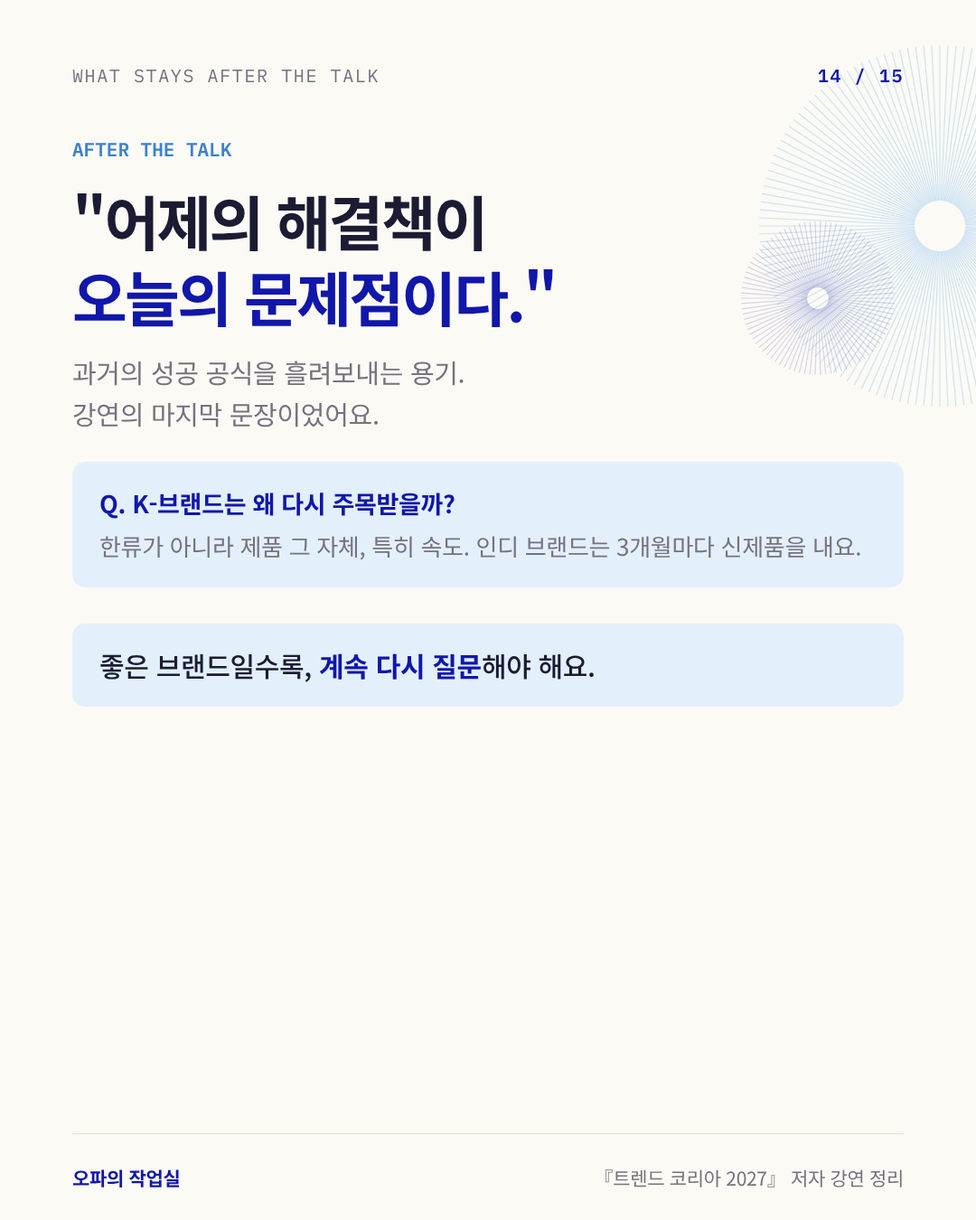
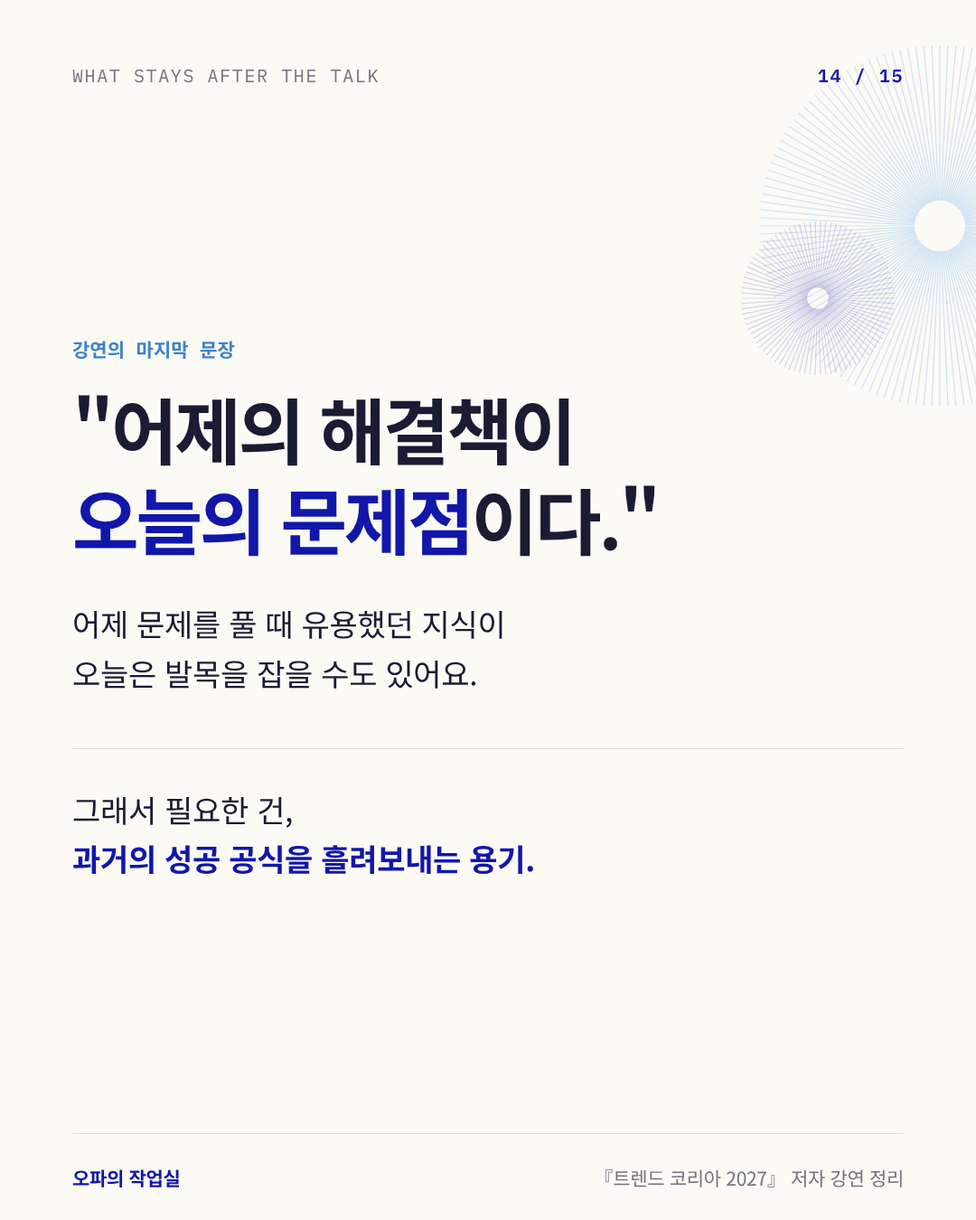
전체 키워드 14번: K-브랜드 Q&A 빼고 마지막 문장 중심 카드로
Claude-Session: https://claude.ai/code/session_016hvv34jPWo253fQY5tLEVV

diff --git a/cardnews/trend-korea-2027/full2/full.html b/cardnews/trend-korea-2027/full2/full.html
@@ -187,12 +187,12 @@
 <section class="card" id="c14"><svg class="deco" viewBox="0 0 1080 1350" aria-hidden="true"><g stroke="#8EC3F0" stroke-width="1.2" stroke-opacity="0.42"><line x1="1068.0" y1="250.0" x2="1240.0" y2="250.0"/><line x1="1068.0" y1="251.3" x2="1239.8" y2="259.0"/><line x1="1067.9" y1="252.5" x2="1239.2" y2="267.9"/><line x1="1067.7" y1="253.8" x2="1238.2" y2="276.8"/><line x1="1067.6" y1="255.0" x2="1236.8" y2="285.7"/><line x1="1067.3" y1="256.2" x2="1235.0" y2="294.5"/><line x1="1067.0" y1="257.4" x2="1232.8" y2="303.2"/><line x1="1066.6" y1="258.7" x2="1230.2" y2="311.8"/><line x1="1066.2" y1="259.8" x2="1227.2" y2="320.3"/><line x1="1065.7" y1="261.0" x2="1223.9" y2="328.6"/><line x1="1065.2" y1="262.1" x2="1220.2" y2="336.8"/><line x1="1064.7" y1="263.3" x2="1216.1" y2="344.8"/><line x1="1064.0" y1="264.4" x2="1211.7" y2="352.6"/><line x1="1063.4" y1="265.4" x2="1206.9" y2="360.2"/><line x1="1062.7" y1="266.5" x2="1201.8" y2="367.6"/><line x1="1061.9" y1="267.5" x2="1196.4" y2="374.7"/><line x1="1061.1" y1="268.4" x2="1190.6" y2="381.6"/><line x1="1060.2" y1="269.3" x2="1184.6" y2="388.2"/><line x1="1059.3" y1="270.2" x2="1178.2" y2="394.6"/><line x1="1058.4" y1="271.1" x2="1171.6" y2="400.6"/><line x1="1057.5" y1="271.9" x2="1164.7" y2="406.4"/><line x1="1056.5" y1="272.7" x2="1157.6" y2="411.8"/><line x1="1055.4" y1="273.4" x2="1150.2" y2="416.9"/><line x1="1054.4" y1="274.0" x2="1142.6" y2="421.7"/><line x1="1053.3" y1="274.7" x2="1134.8" y2="426.1"/><line x1="1052.1" y1="275.2" x2="1126.8" y2="430.2"/><line x1="1051.0" y1="275.7" x2="1118.6" y2="433.9"/><line x1="1049.8" y1="276.2" x2="1110.3" y2="437.2"/><line x1="1048.7" y1="276.6" x2="1101.8" y2="440.2"/><line x1="1047.4" y1="277.0" x2="1093.2" y2="442.8"/><line x1="1046.2" y1="277.3" x2="1084.5" y2="445.0"/><line x1="1045.0" y1="277.6" x2="1075.7" y2="446.8"/><line x1="1043.8" y1="277.7" x2="1066.8" y2="448.2"/><line x1="1042.5" y1="277.9" x2="1057.9" y2="449.2"/><line x1="1041.3" y1="278.0" x2="1049.0" y2="449.8"/><line x1="1040.0" y1="278.0" x2="1040.0" y2="450.0"/><line x1="1038.7" y1="278.0" x2="1031.0" y2="449.8"/><line x1="1037.5" y1="277.9" x2="1022.1" y2="449.2"/><line x1="1036.2" y1="277.7" x2="1013.2" y2="448.2"/><line x1="1035.0" y1="277.6" x2="1004.3" y2="446.8"/><line x1="1033.8" y1="277.3" x2="995.5" y2="445.0"/><line x1="1032.6" y1="277.0" x2="986.8" y2="442.8"/><line x1="1031.3" y1="276.6" x2="978.2" y2="440.2"/><line x1="1030.2" y1="276.2" x2="969.7" y2="437.2"/><line x1="1029.0" y1="275.7" x2="961.4" y2="433.9"/><line x1="1027.9" y1="275.2" x2="953.2" y2="430.2"/><line x1="1026.7" y1="274.7" x2="945.2" y2="426.1"/><line x1="1025.6" y1="274.0" x2="937.4" y2="421.7"/><line x1="1024.6" y1="273.4" x2="929.8" y2="416.9"/><line x1="1023.5" y1="272.7" x2="922.4" y2="411.8"/><line x1="1022.5" y1="271.9" x2="915.3" y2="406.4"/><line x1="1021.6" y1="271.1" x2="908.4" y2="400.6"/><line x1="1020.7" y1="270.2" x2="901.8" y2="394.6"/><line x1="1019.8" y1="269.3" x2="895.4" y2="388.2"/><line x1="1018.9" y1="268.4" x2="889.4" y2="381.6"/><line x1="1018.1" y1="267.5" x2="883.6" y2="374.7"/><line x1="1017.3" y1="266.5" x2="878.2" y2="367.6"/><line x1="1016.6" y1="265.4" x2="873.1" y2="360.2"/><line x1="1016.0" y1="264.4" x2="868.3" y2="352.6"/><line x1="1015.3" y1="263.3" x2="863.9" y2="344.8"/><line x1="1014.8" y1="262.1" x2="859.8" y2="336.8"/><line x1="1014.3" y1="261.0" x2="856.1" y2="328.6"/><line x1="1013.8" y1="259.8" x2="852.8" y2="320.3"/><line x1="1013.4" y1="258.7" x2="849.8" y2="311.8"/><line x1="1013.0" y1="257.4" x2="847.2" y2="303.2"/><line x1="1012.7" y1="256.2" x2="845.0" y2="294.5"/><line x1="1012.4" y1="255.0" x2="843.2" y2="285.7"/><line x1="1012.3" y1="253.8" x2="841.8" y2="276.8"/><line x1="1012.1" y1="252.5" x2="840.8" y2="267.9"/><line x1="1012.0" y1="251.3" x2="840.2" y2="259.0"/><line x1="1012.0" y1="250.0" x2="840.0" y2="250.0"/><line x1="1012.0" y1="248.7" x2="840.2" y2="241.0"/><line x1="1012.1" y1="247.5" x2="840.8" y2="232.1"/><line x1="1012.3" y1="246.2" x2="841.8" y2="223.2"/><line x1="1012.4" y1="245.0" x2="843.2" y2="214.3"/><line x1="1012.7" y1="243.8" x2="845.0" y2="205.5"/><line x1="1013.0" y1="242.6" x2="847.2" y2="196.8"/><line x1="1013.4" y1="241.3" x2="849.8" y2="188.2"/><line x1="1013.8" y1="240.2" x2="852.8" y2="179.7"/><line x1="1014.3" y1="239.0" x2="856.1" y2="171.4"/><line x1="1014.8" y1="237.9" x2="859.8" y2="163.2"/><line x1="1015.3" y1="236.7" x2="863.9" y2="155.2"/><line x1="1016.0" y1="235.6" x2="868.3" y2="147.4"/><line x1="1016.6" y1="234.6" x2="873.1" y2="139.8"/><line x1="1017.3" y1="233.5" x2="878.2" y2="132.4"/><line x1="1018.1" y1="232.5" x2="883.6" y2="125.3"/><line x1="1018.9" y1="231.6" x2="889.4" y2="118.4"/><line x1="1019.8" y1="230.7" x2="895.4" y2="111.8"/><line x1="1020.7" y1="229.8" x2="901.8" y2="105.4"/><line x1="1021.6" y1="228.9" x2="908.4" y2="99.4"/><line x1="1022.5" y1="228.1" x2="915.3" y2="93.6"/><line x1="1023.5" y1="227.3" x2="922.4" y2="88.2"/><line x1="1024.6" y1="226.6" x2="929.8" y2="83.1"/><line x1="1025.6" y1="226.0" x2="937.4" y2="78.3"/><line x1="1026.7" y1="225.3" x2="945.2" y2="73.9"/><line x1="1027.9" y1="224.8" x2="953.2" y2="69.8"/><line x1="1029.0" y1="224.3" x2="961.4" y2="66.1"/><line x1="1030.2" y1="223.8" x2="969.7" y2="62.8"/><line x1="1031.3" y1="223.4" x2="978.2" y2="59.8"/><line x1="1032.6" y1="223.0" x2="986.8" y2="57.2"/><line x1="1033.8" y1="222.7" x2="995.5" y2="55.0"/><line x1="1035.0" y1="222.4" x2="1004.3" y2="53.2"/><line x1="1036.2" y1="222.3" x2="1013.2" y2="51.8"/><line x1="1037.5" y1="222.1" x2="1022.1" y2="50.8"/><line x1="1038.7" y1="222.0" x2="1031.0" y2="50.2"/><line x1="1040.0" y1="222.0" x2="1040.0" y2="50.0"/><line x1="1041.3" y1="222.0" x2="1049.0" y2="50.2"/><line x1="1042.5" y1="222.1" x2="1057.9" y2="50.8"/><line x1="1043.8" y1="222.3" x2="1066.8" y2="51.8"/><line x1="1045.0" y1="222.4" x2="1075.7" y2="53.2"/><line x1="1046.2" y1="222.7" x2="1084.5" y2="55.0"/><line x1="1047.4" y1="223.0" x2="1093.2" y2="57.2"/><line x1="1048.7" y1="223.4" x2="1101.8" y2="59.8"/><line x1="1049.8" y1="223.8" x2="1110.3" y2="62.8"/><line x1="1051.0" y1="224.3" x2="1118.6" y2="66.1"/><line x1="1052.1" y1="224.8" x2="1126.8" y2="69.8"/><line x1="1053.3" y1="225.3" x2="1134.8" y2="73.9"/><line x1="1054.4" y1="226.0" x2="1142.6" y2="78.3"/><line x1="1055.4" y1="226.6" x2="1150.2" y2="83.1"/><line x1="1056.5" y1="227.3" x2="1157.6" y2="88.2"/><line x1="1057.5" y1="228.1" x2="1164.7" y2="93.6"/><line x1="1058.4" y1="228.9" x2="1171.6" y2="99.4"/><line x1="1059.3" y1="229.8" x2="1178.2" y2="105.4"/><line x1="1060.2" y1="230.7" x2="1184.6" y2="111.8"/><line x1="1061.1" y1="231.6" x2="1190.6" y2="118.4"/><line x1="1061.9" y1="232.5" x2="1196.4" y2="125.3"/><line x1="1062.7" y1="233.5" x2="1201.8" y2="132.4"/><line x1="1063.4" y1="234.6" x2="1206.9" y2="139.8"/><line x1="1064.0" y1="235.6" x2="1211.7" y2="147.4"/><line x1="1064.7" y1="236.7" x2="1216.1" y2="155.2"/><line x1="1065.2" y1="237.9" x2="1220.2" y2="163.2"/><line x1="1065.7" y1="239.0" x2="1223.9" y2="171.4"/><line x1="1066.2" y1="240.2" x2="1227.2" y2="179.7"/><line x1="1066.6" y1="241.3" x2="1230.2" y2="188.2"/><line x1="1067.0" y1="242.6" x2="1232.8" y2="196.8"/><line x1="1067.3" y1="243.8" x2="1235.0" y2="205.5"/><line x1="1067.6" y1="245.0" x2="1236.8" y2="214.3"/><line x1="1067.7" y1="246.2" x2="1238.2" y2="223.2"/><line x1="1067.9" y1="247.5" x2="1239.2" y2="232.1"/><line x1="1068.0" y1="248.7" x2="1239.8" y2="241.0"/></g><g stroke="#1117A9" stroke-width="1.2" stroke-opacity="0.16"><line x1="916.9" y1="330.0" x2="990.0" y2="330.0"/><line x1="916.9" y1="330.8" x2="989.8" y2="335.9"/><line x1="916.8" y1="331.7" x2="989.2" y2="341.8"/><line x1="916.6" y1="332.5" x2="988.1" y2="347.7"/><line x1="916.4" y1="333.3" x2="986.7" y2="353.4"/><line x1="916.2" y1="334.1" x2="984.9" y2="359.1"/><line x1="915.9" y1="334.8" x2="982.7" y2="364.6"/><line x1="915.5" y1="335.6" x2="980.1" y2="369.9"/><line x1="915.1" y1="336.3" x2="977.1" y2="375.0"/><line x1="914.6" y1="337.0" x2="973.8" y2="380.0"/><line x1="914.1" y1="337.6" x2="970.1" y2="384.6"/><line x1="913.6" y1="338.3" x2="966.1" y2="389.0"/><line x1="913.0" y1="338.8" x2="961.9" y2="393.2"/><line x1="912.3" y1="339.4" x2="957.3" y2="397.0"/><line x1="911.7" y1="339.9" x2="952.5" y2="400.5"/><line x1="911.0" y1="340.3" x2="947.5" y2="403.6"/><line x1="910.2" y1="340.7" x2="942.3" y2="406.4"/><line x1="909.5" y1="341.0" x2="936.8" y2="408.8"/><line x1="908.7" y1="341.3" x2="931.3" y2="410.8"/><line x1="907.9" y1="341.5" x2="925.6" y2="412.5"/><line x1="907.1" y1="341.7" x2="919.8" y2="413.7"/><line x1="906.2" y1="341.8" x2="913.9" y2="414.5"/><line x1="905.4" y1="341.9" x2="908.0" y2="414.9"/><line x1="904.6" y1="341.9" x2="902.0" y2="414.9"/><line x1="903.8" y1="341.8" x2="896.1" y2="414.5"/><line x1="902.9" y1="341.7" x2="890.2" y2="413.7"/><line x1="902.1" y1="341.5" x2="884.4" y2="412.5"/><line x1="901.3" y1="341.3" x2="878.7" y2="410.8"/><line x1="900.5" y1="341.0" x2="873.2" y2="408.8"/><line x1="899.8" y1="340.7" x2="867.7" y2="406.4"/><line x1="899.0" y1="340.3" x2="862.5" y2="403.6"/><line x1="898.3" y1="339.9" x2="857.5" y2="400.5"/><line x1="897.7" y1="339.4" x2="852.7" y2="397.0"/><line x1="897.0" y1="338.8" x2="848.1" y2="393.2"/><line x1="896.4" y1="338.3" x2="843.9" y2="389.0"/><line x1="895.9" y1="337.6" x2="839.9" y2="384.6"/><line x1="895.4" y1="337.0" x2="836.2" y2="380.0"/><line x1="894.9" y1="336.3" x2="832.9" y2="375.0"/><line x1="894.5" y1="335.6" x2="829.9" y2="369.9"/><line x1="894.1" y1="334.8" x2="827.3" y2="364.6"/><line x1="893.8" y1="334.1" x2="825.1" y2="359.1"/><line x1="893.6" y1="333.3" x2="823.3" y2="353.4"/><line x1="893.4" y1="332.5" x2="821.9" y2="347.7"/><line x1="893.2" y1="331.7" x2="820.8" y2="341.8"/><line x1="893.1" y1="330.8" x2="820.2" y2="335.9"/><line x1="893.1" y1="330.0" x2="820.0" y2="330.0"/><line x1="893.1" y1="329.2" x2="820.2" y2="324.1"/><line x1="893.2" y1="328.3" x2="820.8" y2="318.2"/><line x1="893.4" y1="327.5" x2="821.9" y2="312.3"/><line x1="893.6" y1="326.7" x2="823.3" y2="306.6"/><line x1="893.8" y1="325.9" x2="825.1" y2="300.9"/><line x1="894.1" y1="325.2" x2="827.3" y2="295.4"/><line x1="894.5" y1="324.4" x2="829.9" y2="290.1"/><line x1="894.9" y1="323.7" x2="832.9" y2="285.0"/><line x1="895.4" y1="323.0" x2="836.2" y2="280.0"/><line x1="895.9" y1="322.4" x2="839.9" y2="275.4"/><line x1="896.4" y1="321.7" x2="843.9" y2="271.0"/><line x1="897.0" y1="321.2" x2="848.1" y2="266.8"/><line x1="897.7" y1="320.6" x2="852.7" y2="263.0"/><line x1="898.3" y1="320.1" x2="857.5" y2="259.5"/><line x1="899.0" y1="319.7" x2="862.5" y2="256.4"/><line x1="899.8" y1="319.3" x2="867.7" y2="253.6"/><line x1="900.5" y1="319.0" x2="873.2" y2="251.2"/><line x1="901.3" y1="318.7" x2="878.7" y2="249.2"/><line x1="902.1" y1="318.5" x2="884.4" y2="247.5"/><line x1="902.9" y1="318.3" x2="890.2" y2="246.3"/><line x1="903.8" y1="318.2" x2="896.1" y2="245.5"/><line x1="904.6" y1="318.1" x2="902.0" y2="245.1"/><line x1="905.4" y1="318.1" x2="908.0" y2="245.1"/><line x1="906.2" y1="318.2" x2="913.9" y2="245.5"/><line x1="907.1" y1="318.3" x2="919.8" y2="246.3"/><line x1="907.9" y1="318.5" x2="925.6" y2="247.5"/><line x1="908.7" y1="318.7" x2="931.3" y2="249.2"/><line x1="909.5" y1="319.0" x2="936.8" y2="251.2"/><line x1="910.2" y1="319.3" x2="942.3" y2="253.6"/><line x1="911.0" y1="319.7" x2="947.5" y2="256.4"/><line x1="911.7" y1="320.1" x2="952.5" y2="259.5"/><line x1="912.3" y1="320.6" x2="957.3" y2="263.0"/><line x1="913.0" y1="321.2" x2="961.9" y2="266.8"/><line x1="913.6" y1="321.7" x2="966.1" y2="271.0"/><line x1="914.1" y1="322.4" x2="970.1" y2="275.4"/><line x1="914.6" y1="323.0" x2="973.8" y2="280.0"/><line x1="915.1" y1="323.7" x2="977.1" y2="285.0"/><line x1="915.5" y1="324.4" x2="980.1" y2="290.1"/><line x1="915.9" y1="325.2" x2="982.7" y2="295.4"/><line x1="916.2" y1="325.9" x2="984.9" y2="300.9"/><line x1="916.4" y1="326.7" x2="986.7" y2="306.6"/><line x1="916.6" y1="327.5" x2="988.1" y2="312.3"/><line x1="916.8" y1="328.3" x2="989.2" y2="318.2"/><line x1="916.9" y1="329.2" x2="989.8" y2="324.1"/></g></svg>
   <div class="top"><span>WHAT STAYS AFTER THE TALK</span><b>14 / 15</b></div>
   
-  <div class="lab big">AFTER THE TALK</div>
-  <h2 class="quote">"어제의 해결책이<br><span>오늘의 문제점이다."</span></h2>
-  <p class="def">과거의 성공 공식을 흘려보내는 용기.<br>강연의 마지막 문장이었어요.</p>
-  <div class="qa sky"><b>Q. K-브랜드는 왜 다시 주목받을까?</b>
-    <p>한류가 아니라 제품 그 자체, 특히 속도. 인디 브랜드는 3개월마다 신제품을 내요.</p></div>
-  <div class="banner">좋은 브랜드일수록, <b>계속 다시 질문</b>해야 해요.</div>
+  <div class="msg">
+    <div class="lab big">강연의 마지막 문장</div>
+    <h2 class="big quote">"어제의 해결책이<br><span>오늘의 문제점</span>이다."</h2>
+    <p class="lead">어제 문제를 풀 때 유용했던 지식이<br>오늘은 발목을 잡을 수도 있어요.</p>
+    <p class="lead close">그래서 필요한 건,<br><b>과거의 성공 공식을 흘려보내는 용기.</b></p>
+  </div>
   <div class="foot"><span>오파의 작업실</span><span>『트렌드 코리아 2027』 저자 강연 정리</span></div>
 </section>
 <section class="card" id="c15"><svg class="deco" viewBox="0 0 1080 1350" aria-hidden="true"><g stroke="#8EC3F0" stroke-width="1.2" stroke-opacity="0.42"><line x1="1068.0" y1="250.0" x2="1240.0" y2="250.0"/><line x1="1068.0" y1="251.3" x2="1239.8" y2="259.0"/><line x1="1067.9" y1="252.5" x2="1239.2" y2="267.9"/><line x1="1067.7" y1="253.8" x2="1238.2" y2="276.8"/><line x1="1067.6" y1="255.0" x2="1236.8" y2="285.7"/><line x1="1067.3" y1="256.2" x2="1235.0" y2="294.5"/><line x1="1067.0" y1="257.4" x2="1232.8" y2="303.2"/><line x1="1066.6" y1="258.7" x2="1230.2" y2="311.8"/><line x1="1066.2" y1="259.8" x2="1227.2" y2="320.3"/><line x1="1065.7" y1="261.0" x2="1223.9" y2="328.6"/><line x1="1065.2" y1="262.1" x2="1220.2" y2="336.8"/><line x1="1064.7" y1="263.3" x2="1216.1" y2="344.8"/><line x1="1064.0" y1="264.4" x2="1211.7" y2="352.6"/><line x1="1063.4" y1="265.4" x2="1206.9" y2="360.2"/><line x1="1062.7" y1="266.5" x2="1201.8" y2="367.6"/><line x1="1061.9" y1="267.5" x2="1196.4" y2="374.7"/><line x1="1061.1" y1="268.4" x2="1190.6" y2="381.6"/><line x1="1060.2" y1="269.3" x2="1184.6" y2="388.2"/><line x1="1059.3" y1="270.2" x2="1178.2" y2="394.6"/><line x1="1058.4" y1="271.1" x2="1171.6" y2="400.6"/><line x1="1057.5" y1="271.9" x2="1164.7" y2="406.4"/><line x1="1056.5" y1="272.7" x2="1157.6" y2="411.8"/><line x1="1055.4" y1="273.4" x2="1150.2" y2="416.9"/><line x1="1054.4" y1="274.0" x2="1142.6" y2="421.7"/><line x1="1053.3" y1="274.7" x2="1134.8" y2="426.1"/><line x1="1052.1" y1="275.2" x2="1126.8" y2="430.2"/><line x1="1051.0" y1="275.7" x2="1118.6" y2="433.9"/><line x1="1049.8" y1="276.2" x2="1110.3" y2="437.2"/><line x1="1048.7" y1="276.6" x2="1101.8" y2="440.2"/><line x1="1047.4" y1="277.0" x2="1093.2" y2="442.8"/><line x1="1046.2" y1="277.3" x2="1084.5" y2="445.0"/><line x1="1045.0" y1="277.6" x2="1075.7" y2="446.8"/><line x1="1043.8" y1="277.7" x2="1066.8" y2="448.2"/><line x1="1042.5" y1="277.9" x2="1057.9" y2="449.2"/><line x1="1041.3" y1="278.0" x2="1049.0" y2="449.8"/><line x1="1040.0" y1="278.0" x2="1040.0" y2="450.0"/><line x1="1038.7" y1="278.0" x2="1031.0" y2="449.8"/><line x1="1037.5" y1="277.9" x2="1022.1" y2="449.2"/><line x1="1036.2" y1="277.7" x2="1013.2" y2="448.2"/><line x1="1035.0" y1="277.6" x2="1004.3" y2="446.8"/><line x1="1033.8" y1="277.3" x2="995.5" y2="445.0"/><line x1="1032.6" y1="277.0" x2="986.8" y2="442.8"/><line x1="1031.3" y1="276.6" x2="978.2" y2="440.2"/><line x1="1030.2" y1="276.2" x2="969.7" y2="437.2"/><line x1="1029.0" y1="275.7" x2="961.4" y2="433.9"/><line x1="1027.9" y1="275.2" x2="953.2" y2="430.2"/><line x1="1026.7" y1="274.7" x2="945.2" y2="426.1"/><line x1="1025.6" y1="274.0" x2="937.4" y2="421.7"/><line x1="1024.6" y1="273.4" x2="929.8" y2="416.9"/><line x1="1023.5" y1="272.7" x2="922.4" y2="411.8"/><line x1="1022.5" y1="271.9" x2="915.3" y2="406.4"/><line x1="1021.6" y1="271.1" x2="908.4" y2="400.6"/><line x1="1020.7" y1="270.2" x2="901.8" y2="394.6"/><line x1="1019.8" y1="269.3" x2="895.4" y2="388.2"/><line x1="1018.9" y1="268.4" x2="889.4" y2="381.6"/><line x1="1018.1" y1="267.5" x2="883.6" y2="374.7"/><line x1="1017.3" y1="266.5" x2="878.2" y2="367.6"/><line x1="1016.6" y1="265.4" x2="873.1" y2="360.2"/><line x1="1016.0" y1="264.4" x2="868.3" y2="352.6"/><line x1="1015.3" y1="263.3" x2="863.9" y2="344.8"/><line x1="1014.8" y1="262.1" x2="859.8" y2="336.8"/><line x1="1014.3" y1="261.0" x2="856.1" y2="328.6"/><line x1="1013.8" y1="259.8" x2="852.8" y2="320.3"/><line x1="1013.4" y1="258.7" x2="849.8" y2="311.8"/><line x1="1013.0" y1="257.4" x2="847.2" y2="303.2"/><line x1="1012.7" y1="256.2" x2="845.0" y2="294.5"/><line x1="1012.4" y1="255.0" x2="843.2" y2="285.7"/><line x1="1012.3" y1="253.8" x2="841.8" y2="276.8"/><line x1="1012.1" y1="252.5" x2="840.8" y2="267.9"/><line x1="1012.0" y1="251.3" x2="840.2" y2="259.0"/><line x1="1012.0" y1="250.0" x2="840.0" y2="250.0"/><line x1="1012.0" y1="248.7" x2="840.2" y2="241.0"/><line x1="1012.1" y1="247.5" x2="840.8" y2="232.1"/><line x1="1012.3" y1="246.2" x2="841.8" y2="223.2"/><line x1="1012.4" y1="245.0" x2="843.2" y2="214.3"/><line x1="1012.7" y1="243.8" x2="845.0" y2="205.5"/><line x1="1013.0" y1="242.6" x2="847.2" y2="196.8"/><line x1="1013.4" y1="241.3" x2="849.8" y2="188.2"/><line x1="1013.8" y1="240.2" x2="852.8" y2="179.7"/><line x1="1014.3" y1="239.0" x2="856.1" y2="171.4"/><line x1="1014.8" y1="237.9" x2="859.8" y2="163.2"/><line x1="1015.3" y1="236.7" x2="863.9" y2="155.2"/><line x1="1016.0" y1="235.6" x2="868.3" y2="147.4"/><line x1="1016.6" y1="234.6" x2="873.1" y2="139.8"/><line x1="1017.3" y1="233.5" x2="878.2" y2="132.4"/><line x1="1018.1" y1="232.5" x2="883.6" y2="125.3"/><line x1="1018.9" y1="231.6" x2="889.4" y2="118.4"/><line x1="1019.8" y1="230.7" x2="895.4" y2="111.8"/><line x1="1020.7" y1="229.8" x2="901.8" y2="105.4"/><line x1="1021.6" y1="228.9" x2="908.4" y2="99.4"/><line x1="1022.5" y1="228.1" x2="915.3" y2="93.6"/><line x1="1023.5" y1="227.3" x2="922.4" y2="88.2"/><line x1="1024.6" y1="226.6" x2="929.8" y2="83.1"/><line x1="1025.6" y1="226.0" x2="937.4" y2="78.3"/><line x1="1026.7" y1="225.3" x2="945.2" y2="73.9"/><line x1="1027.9" y1="224.8" x2="953.2" y2="69.8"/><line x1="1029.0" y1="224.3" x2="961.4" y2="66.1"/><line x1="1030.2" y1="223.8" x2="969.7" y2="62.8"/><line x1="1031.3" y1="223.4" x2="978.2" y2="59.8"/><line x1="1032.6" y1="223.0" x2="986.8" y2="57.2"/><line x1="1033.8" y1="222.7" x2="995.5" y2="55.0"/><line x1="1035.0" y1="222.4" x2="1004.3" y2="53.2"/><line x1="1036.2" y1="222.3" x2="1013.2" y2="51.8"/><line x1="1037.5" y1="222.1" x2="1022.1" y2="50.8"/><line x1="1038.7" y1="222.0" x2="1031.0" y2="50.2"/><line x1="1040.0" y1="222.0" x2="1040.0" y2="50.0"/><line x1="1041.3" y1="222.0" x2="1049.0" y2="50.2"/><line x1="1042.5" y1="222.1" x2="1057.9" y2="50.8"/><line x1="1043.8" y1="222.3" x2="1066.8" y2="51.8"/><line x1="1045.0" y1="222.4" x2="1075.7" y2="53.2"/><line x1="1046.2" y1="222.7" x2="1084.5" y2="55.0"/><line x1="1047.4" y1="223.0" x2="1093.2" y2="57.2"/><line x1="1048.7" y1="223.4" x2="1101.8" y2="59.8"/><line x1="1049.8" y1="223.8" x2="1110.3" y2="62.8"/><line x1="1051.0" y1="224.3" x2="1118.6" y2="66.1"/><line x1="1052.1" y1="224.8" x2="1126.8" y2="69.8"/><line x1="1053.3" y1="225.3" x2="1134.8" y2="73.9"/><line x1="1054.4" y1="226.0" x2="1142.6" y2="78.3"/><line x1="1055.4" y1="226.6" x2="1150.2" y2="83.1"/><line x1="1056.5" y1="227.3" x2="1157.6" y2="88.2"/><line x1="1057.5" y1="228.1" x2="1164.7" y2="93.6"/><line x1="1058.4" y1="228.9" x2="1171.6" y2="99.4"/><line x1="1059.3" y1="229.8" x2="1178.2" y2="105.4"/><line x1="1060.2" y1="230.7" x2="1184.6" y2="111.8"/><line x1="1061.1" y1="231.6" x2="1190.6" y2="118.4"/><line x1="1061.9" y1="232.5" x2="1196.4" y2="125.3"/><line x1="1062.7" y1="233.5" x2="1201.8" y2="132.4"/><line x1="1063.4" y1="234.6" x2="1206.9" y2="139.8"/><line x1="1064.0" y1="235.6" x2="1211.7" y2="147.4"/><line x1="1064.7" y1="236.7" x2="1216.1" y2="155.2"/><line x1="1065.2" y1="237.9" x2="1220.2" y2="163.2"/><line x1="1065.7" y1="239.0" x2="1223.9" y2="171.4"/><line x1="1066.2" y1="240.2" x2="1227.2" y2="179.7"/><line x1="1066.6" y1="241.3" x2="1230.2" y2="188.2"/><line x1="1067.0" y1="242.6" x2="1232.8" y2="196.8"/><line x1="1067.3" y1="243.8" x2="1235.0" y2="205.5"/><line x1="1067.6" y1="245.0" x2="1236.8" y2="214.3"/><line x1="1067.7" y1="246.2" x2="1238.2" y2="223.2"/><line x1="1067.9" y1="247.5" x2="1239.2" y2="232.1"/><line x1="1068.0" y1="248.7" x2="1239.8" y2="241.0"/></g><g stroke="#1117A9" stroke-width="1.2" stroke-opacity="0.16"><line x1="916.9" y1="330.0" x2="990.0" y2="330.0"/><line x1="916.9" y1="330.8" x2="989.8" y2="335.9"/><line x1="916.8" y1="331.7" x2="989.2" y2="341.8"/><line x1="916.6" y1="332.5" x2="988.1" y2="347.7"/><line x1="916.4" y1="333.3" x2="986.7" y2="353.4"/><line x1="916.2" y1="334.1" x2="984.9" y2="359.1"/><line x1="915.9" y1="334.8" x2="982.7" y2="364.6"/><line x1="915.5" y1="335.6" x2="980.1" y2="369.9"/><line x1="915.1" y1="336.3" x2="977.1" y2="375.0"/><line x1="914.6" y1="337.0" x2="973.8" y2="380.0"/><line x1="914.1" y1="337.6" x2="970.1" y2="384.6"/><line x1="913.6" y1="338.3" x2="966.1" y2="389.0"/><line x1="913.0" y1="338.8" x2="961.9" y2="393.2"/><line x1="912.3" y1="339.4" x2="957.3" y2="397.0"/><line x1="911.7" y1="339.9" x2="952.5" y2="400.5"/><line x1="911.0" y1="340.3" x2="947.5" y2="403.6"/><line x1="910.2" y1="340.7" x2="942.3" y2="406.4"/><line x1="909.5" y1="341.0" x2="936.8" y2="408.8"/><line x1="908.7" y1="341.3" x2="931.3" y2="410.8"/><line x1="907.9" y1="341.5" x2="925.6" y2="412.5"/><line x1="907.1" y1="341.7" x2="919.8" y2="413.7"/><line x1="906.2" y1="341.8" x2="913.9" y2="414.5"/><line x1="905.4" y1="341.9" x2="908.0" y2="414.9"/><line x1="904.6" y1="341.9" x2="902.0" y2="414.9"/><line x1="903.8" y1="341.8" x2="896.1" y2="414.5"/><line x1="902.9" y1="341.7" x2="890.2" y2="413.7"/><line x1="902.1" y1="341.5" x2="884.4" y2="412.5"/><line x1="901.3" y1="341.3" x2="878.7" y2="410.8"/><line x1="900.5" y1="341.0" x2="873.2" y2="408.8"/><line x1="899.8" y1="340.7" x2="867.7" y2="406.4"/><line x1="899.0" y1="340.3" x2="862.5" y2="403.6"/><line x1="898.3" y1="339.9" x2="857.5" y2="400.5"/><line x1="897.7" y1="339.4" x2="852.7" y2="397.0"/><line x1="897.0" y1="338.8" x2="848.1" y2="393.2"/><line x1="896.4" y1="338.3" x2="843.9" y2="389.0"/><line x1="895.9" y1="337.6" x2="839.9" y2="384.6"/><line x1="895.4" y1="337.0" x2="836.2" y2="380.0"/><line x1="894.9" y1="336.3" x2="832.9" y2="375.0"/><line x1="894.5" y1="335.6" x2="829.9" y2="369.9"/><line x1="894.1" y1="334.8" x2="827.3" y2="364.6"/><line x1="893.8" y1="334.1" x2="825.1" y2="359.1"/><line x1="893.6" y1="333.3" x2="823.3" y2="353.4"/><line x1="893.4" y1="332.5" x2="821.9" y2="347.7"/><line x1="893.2" y1="331.7" x2="820.8" y2="341.8"/><line x1="893.1" y1="330.8" x2="820.2" y2="335.9"/><line x1="893.1" y1="330.0" x2="820.0" y2="330.0"/><line x1="893.1" y1="329.2" x2="820.2" y2="324.1"/><line x1="893.2" y1="328.3" x2="820.8" y2="318.2"/><line x1="893.4" y1="327.5" x2="821.9" y2="312.3"/><line x1="893.6" y1="326.7" x2="823.3" y2="306.6"/><line x1="893.8" y1="325.9" x2="825.1" y2="300.9"/><line x1="894.1" y1="325.2" x2="827.3" y2="295.4"/><line x1="894.5" y1="324.4" x2="829.9" y2="290.1"/><line x1="894.9" y1="323.7" x2="832.9" y2="285.0"/><line x1="895.4" y1="323.0" x2="836.2" y2="280.0"/><line x1="895.9" y1="322.4" x2="839.9" y2="275.4"/><line x1="896.4" y1="321.7" x2="843.9" y2="271.0"/><line x1="897.0" y1="321.2" x2="848.1" y2="266.8"/><line x1="897.7" y1="320.6" x2="852.7" y2="263.0"/><line x1="898.3" y1="320.1" x2="857.5" y2="259.5"/><line x1="899.0" y1="319.7" x2="862.5" y2="256.4"/><line x1="899.8" y1="319.3" x2="867.7" y2="253.6"/><line x1="900.5" y1="319.0" x2="873.2" y2="251.2"/><line x1="901.3" y1="318.7" x2="878.7" y2="249.2"/><line x1="902.1" y1="318.5" x2="884.4" y2="247.5"/><line x1="902.9" y1="318.3" x2="890.2" y2="246.3"/><line x1="903.8" y1="318.2" x2="896.1" y2="245.5"/><line x1="904.6" y1="318.1" x2="902.0" y2="245.1"/><line x1="905.4" y1="318.1" x2="908.0" y2="245.1"/><line x1="906.2" y1="318.2" x2="913.9" y2="245.5"/><line x1="907.1" y1="318.3" x2="919.8" y2="246.3"/><line x1="907.9" y1="318.5" x2="925.6" y2="247.5"/><line x1="908.7" y1="318.7" x2="931.3" y2="249.2"/><line x1="909.5" y1="319.0" x2="936.8" y2="251.2"/><line x1="910.2" y1="319.3" x2="942.3" y2="253.6"/><line x1="911.0" y1="319.7" x2="947.5" y2="256.4"/><line x1="911.7" y1="320.1" x2="952.5" y2="259.5"/><line x1="912.3" y1="320.6" x2="957.3" y2="263.0"/><line x1="913.0" y1="321.2" x2="961.9" y2="266.8"/><line x1="913.6" y1="321.7" x2="966.1" y2="271.0"/><line x1="914.1" y1="322.4" x2="970.1" y2="275.4"/><line x1="914.6" y1="323.0" x2="973.8" y2="280.0"/><line x1="915.1" y1="323.7" x2="977.1" y2="285.0"/><line x1="915.5" y1="324.4" x2="980.1" y2="290.1"/><line x1="915.9" y1="325.2" x2="982.7" y2="295.4"/><line x1="916.2" y1="325.9" x2="984.9" y2="300.9"/><line x1="916.4" y1="326.7" x2="986.7" y2="306.6"/><line x1="916.6" y1="327.5" x2="988.1" y2="312.3"/><line x1="916.8" y1="328.3" x2="989.2" y2="318.2"/><line x1="916.9" y1="329.2" x2="989.8" y2="324.1"/></g></svg>

diff --git a/cardnews/trend-korea-2027/full2/full.css b/cardnews/trend-korea-2027/full2/full.css
@@ -86,3 +86,5 @@ h2.big { font-size: 76px; line-height: 1.25; }
 /* 사진 대신 인용 타일 */
 .ph.qt { display: flex; align-items: center; justify-content: center; background: var(--blue); }
 .ph.qt p { font-family: var(--serif), 'Noto Sans KR'; color: #FCFAF5; font-size: 34px; font-weight: 700; line-height: 1.4; text-align: center; letter-spacing: -.02em; }
+h2.big.quote { font-size: 80px; }
+.lead.close { margin-top: 0; padding-top: 40px; border-top: 1px solid var(--line); }

diff --git a/cardnews/trend-korea-2027/full2/build.py b/cardnews/trend-korea-2027/full2/build.py
@@ -126,12 +126,12 @@ cards = [card(1, 'TREND KOREA 2027 &nbsp;/&nbsp; THE OVERVIEW', '''
   <div class="banner">이제 10개 키워드를 하나씩 풀어볼게요 <b>→</b></div>''')]
 cards += [kw(i, *k) for i, k in enumerate(KW, 4)]
 cards.append(card(14, 'WHAT STAYS AFTER THE TALK', '''
-  <div class="lab big">AFTER THE TALK</div>
-  <h2 class="quote">"어제의 해결책이<br><span>오늘의 문제점이다."</span></h2>
-  <p class="def">과거의 성공 공식을 흘려보내는 용기.<br>강연의 마지막 문장이었어요.</p>
-  <div class="qa sky"><b>Q. K-브랜드는 왜 다시 주목받을까?</b>
-    <p>한류가 아니라 제품 그 자체, 특히 속도. 인디 브랜드는 3개월마다 신제품을 내요.</p></div>
-  <div class="banner">좋은 브랜드일수록, <b>계속 다시 질문</b>해야 해요.</div>'''))
+  <div class="msg">
+    <div class="lab big">강연의 마지막 문장</div>
+    <h2 class="big quote">"어제의 해결책이<br><span>오늘의 문제점</span>이다."</h2>
+    <p class="lead">어제 문제를 풀 때 유용했던 지식이<br>오늘은 발목을 잡을 수도 있어요.</p>
+    <p class="lead close">그래서 필요한 건,<br><b>과거의 성공 공식을 흘려보내는 용기.</b></p>
+  </div>'''))
 cards.append(card(15, 'SAVE THIS PAGE', '''
   <div class="lab big">저장용 한 장 요약</div>
   <h2>2027 키워드 10</h2>
